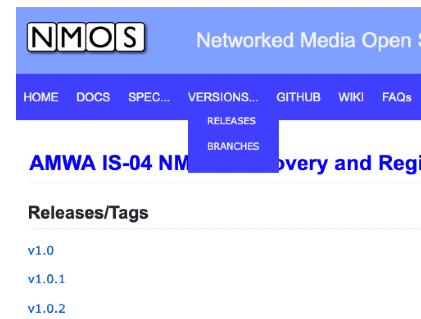
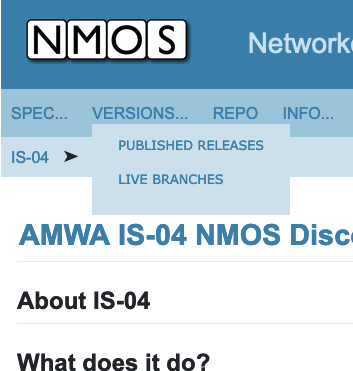
Update screenshots, defer to per-spec intros

diff --git a/docs/Technical Overview.md b/docs/Technical Overview.md
@@ -1,12 +1,12 @@
 # NMOS Technical Overview
 {:.no_toc}
 
-* A markdown unordered list which will be replaced with the ToC, excluding the "Contents header" from above
+- A markdown unordered list which will be replaced with the ToC, excluding the "Contents header" from above
 {:toc}
 
 ## Introduction
 
-Networked Media Open Specifications ([NMOS][]) are a family of specifications that support the professional AV media industry's transition to a "fully-networked" architecture. 
+Networked Media Open Specifications ([NMOS][]) are a family of specifications that support the professional AV media industry's transition to a "fully-networked" architecture.
 
 The NMOS specs are developed by the Advanced Media Workflow Association ([AMWA][]) and are published on GitHub.
 
@@ -162,8 +162,11 @@ A current list of NMOS Specifications is at <https://specs.amwa.tv/nmos>:
 
 ![NMOS-Main-List](images/nmos-main-list.png)
 
+From there you can click on the entry in the "Name" column to go to the *rendered HTML documentation* for each Specification. Each Specification's "home page" contains a short introduction, typically including:
 
-From there you can click on the entry in the "Name" column to go to the *rendered HTML documentation* for each Specification.
+- What does it do?
+- Why does it matter?
+- How does it work?
 
 To see the GitHub _repository_ that contains the source for the specification, click on the entry in the "Repository" column, or on "GITHUB" in the menu bar of the documentation. This takes you to the default git branch
 
@@ -173,10 +176,10 @@ To see the GitHub _repository_ that contains the source for the specification, c
 
 The NMOS Interface Specications (IS-04 etc.) are layed out as below, where the directory names refer to what is in the repo:
 
-* `/APIs/`: RAML API definitions
-  * `/APIs/schemas/`: JSON Schemas referenced from the RAML
-* `/examples/`: Example API messages
-* `/docs/`: Normative and supporting documents, starting with an Overview.
+- `/APIs/`: RAML API definitions
+  - `/APIs/schemas/`: JSON Schemas referenced from the RAML
+- `/examples/`: Example API messages
+- `/docs/`: Normative and supporting documents, starting with an Overview.
 
 The most imporant parts of these are listed on the Specification's main documentation page:
 
@@ -188,7 +191,7 @@ And you can also use menu options:
 
 ### Selecting a Version
 
-"VERSIONS..." in the documenation menu lets you select a particular release of a specification, or a particular release:
+"VERSIONS..." in the documenation menu lets you select a particular release of a specification, or a live (development) branch:
 
 ![Nav-Versions](images/nav-versions.png)
 
@@ -205,7 +208,7 @@ To go back to the main Spec list, click the NMOS logo.
 
 ### Viewing the APIs
 
-You can download the RAML and schema files directly from the repo (in the directories listed above). 
+You can download the RAML and schema files directly from the repo (in the directories listed above).
 But in many cases it may be easier to view rendered versions, such as this one for the IS-04 Node API:
 
 ![API-Doc](images/api-doc.png)
@@ -216,98 +219,9 @@ Then you can use the GET, PUT, etc. buttons to see a relevant request or respons
 
 > Note that this example includes three further referenced schemas.  At present you will have to navigate to the "Schemas" page to see these.  We hope to put in links soon though!
 
-> And also note that the header and toolbar are not present on the rendered API specs, so you'll have to use the back button until they are. We'll try to fix that also.
-
 ### Viewing the documentation
 
 This is straightforward - just click on the relevant links.
-
->  Note that the numbers in the document file names are removed for the HTML site (so `1.0. Overview` -> `Overview`), but the order is preserved.  Please submit an issue if you think is undesirable.
-
-## The Specifications
-
-This section outlines the publicly available NMOS specifications.
-
-### IS-04: Discovery and Registration
-
-<https://specs.amwa.tv/is-04>
-
-This Specification enables applications to discover networked resources, which is an important first step towards automation and scalability.
-
-It specifies:
-
-- an HTTP **Registration API** that Nodes use to register their resources with a **Registry**.
-- an HTTP **Query API** that applications use to find a list of available resources of a particular type (Device, Sender, Receiver...) in the Registry.
-- an HTTP **Node API** that applications use to find further resources on the Node.
-- how to announce the APIs using DNS-SD, so the API endpoints don't have to be known by Nodes or Applications.
-- how to achieve "peer-to-peer" discovery using DNS-SD and the Node API, where no Registry is available.
-
-It also includes a basic connection management mechanism that was used before the creation of IS-05 (see below). This is deprecated, and will be removed in later versions of IS-04.
-
-### IS-05: Device Connection Management
-
-<https://specs.amwa.tv/is-05>
-
-This Specification provides an HTTP API for establishing (and removing) Flows between Senders and Receivers.
-
-This allows the connection to made in a way that doesn't require knowledge of the transport protocol that will be used. It can be used for both unicast and multicast connections, and to initiate a connection made by a separate controller application.
-
-It allows connections to be prepared and "activated" at a particular time and allows multiple connections to be made/unmade at the same time (sometimes known as "bulk" or "salvo" operation).
-
-### IS-06: Network Control
-
-<https://specs.amwa.tv/is-06>
-
-This Specification can be considered as a "northbound API" for SDN controllers. It provides an HTTP API to communicate information about the network topology, allow reservation of bandwidth for low-level network flows and monitoring.
-
-### IS-07: Event & Tally
-
-<https://specs.amwa.tv/is-07>
-
-This Specification provides a mechanism for conveying time-related state and state change information, for example tally information from sensors and actuators using WebSockets or a message queue (MQTT).
-
-### IS-08: Audio Channel Mapping
-
-<https://specs.amwa.tv/is-08>
-
-This Specification provides a mechanism to define settings for channel mapping, selection and shuffling for use with NMOS APIs.
-
-### IS-09: System
-
-<https://specs.amwa.tv/is-09>
-
-This allows Nodes to find Resources that are common across a system, to ensure consistent start-up.
-
-### MS-04: Identity & Timing Model
-
-<https://specs.amwa.tv/ms-04>
-
-This will document a model for identity and timing that applies to AMWA NMOS specifications associated with the identification and processing of content.
-This is consistent with the model and terminology presented in this Overview.
-
-### BCP-002-01: Natural Grouping
-
-<https://specs.amwa.tv/bcp-002>
-
-This defines how to tag related resources, such as a group of Senders belonging to the same Device or Node, or a group of Receivers belonging to the same Device or Node.
-
-### BCP-003-01: Securing Communications
-
-<https://specs.amwa.tv/bcp-003-01>
-
-This documents best practice for securing communications used in NMOS specifications, using  TLS and PKI.
-
-### BCP-003-02 and IS-10: Authorization (Work In Progress)
-
-<https://specs.amwa.tv/bcp-003-02> and <https://specs.amwa.tv/is-10>
-
-These specify how to implement client authorization for the NMOS APIs.
-
-### Parameter Registers
-
-<https://specs.amwa.tv/nmos-parameter-registers>
-
-The Parameter Registers provide an extensible mechanism for defining values used within NMOS Specfications. Currently these use URNs. For example some NMOS resources have a `format` property, and `urn:x-nmos:format:video` provides a formal way of using this.
 
 [AES-67]: http://www.aes.org/publications/standards/search.cfm?docID=96 "AES67-2015: AES standard for audio applications of networks - High-performance streaming audio-over-IP interoperability"
 

diff --git a/docs/NMOS Solutions.md b/docs/NMOS Solutions.md
@@ -75,7 +75,7 @@ Many of these products have participated in the JT-NM Tested programme, with res
 | Riedel Communications GmbH & Co. KG|  [MediorNet FusioN](https://www.riedel.net/en/products-solutions/distributed-video-networks/mediornet-fusion/hardware/) <br/> [MediorNet MuoN](https://www.riedel.net/en/products-solutions/distributed-video-networks/mediornet-muon/hardware/) <br/> [MediorNet MicroN IP App](https://www.riedel.net/en/products/media-networks/mn-micron/ip-app/) <br/><br/><br/> [Artist Matrix Intercom](https://www.riedel.net/en/products-solutions/intercom/artist-matrix-intercom/hardware/) <br/> <br/>[Control Panel App for 1200 series Smartpanels](https://www.riedel.net/en/products-solutions/intercom/smartpanels/control-panel-app/)| IS-04 v1.2/1.3 <br/> IS-05 v1.0/1.1 <br/> IS-08 v1.0 <br/>IS-07 v1.0 (Control Panel App) | Gateway and Processing Devices <br/><br/><br/><br/><br> IP Intercom <br/><br/><br/> Universal Control Panel |
 | Ross | [Ultrix-IP](https://www.rossvideo.com/ultrix) <br/> [Raptor](https://www.rossvideo.com/raptor) <br/> [Newt](https://www.rossvideo.com/newt) <br/> [Iggy](https://www.rossvideo.com/products-services/infrastructure/signal-processing/iggy-madi-aes67-st2110-to-madi-audio-converter/) | IS-04 v1.3 IS-05 v1.1 (Ultrix-IP)<br/> IS-04 v1.2 IS-05 v1.0 | Ultrix 12G Router IP Gateway <br/> IP/SDI Gateway <br/> IP/SDI/HDMI Gateway <br/> AES67 / MADI gateway |
 | Sony | [HDCU-3000 Series](https://pro.sony/en_GB/products/camera-control-unit/hdcu-3500) <br/> [HDCU-5000 Series](https://pro.sony/en_GB/products/camera-control-unit/hdcu-5000) <br/> [HDCE-TX/RX Series](https://pro.sony/en_GB/products/camera-control-unit/hdce-tx30) <br/> [XVS Series](https://pro.sony/en_GB/products/video-switchers) <br/> [PWS-4500](https://pro.sony/en_GB/products/live-production-servers/pws-4500) | IS-04 v1.3 <br/> IS-05 v1.1 <br/> BCP-002-01 v1.0 | IP Ready Camera Control Units <br/> IP Ready Camera Extension Adaptor <br/> IP Ready Switcher Processor <br/> IP Ready Production Server |
-| Synamedia | [Virtual Digital Content Manager (vDCM)](https://www.synamedia.com/wp-content/uploads/2021/11/VN-vDCM-Encoder-Datasheet.pdf) | IS-04 v1.3 <br/> IS05 v1.1 <br/> BCP-002-01 v1.0 <br/> BCP-004-01 v1.0 | Software-based video multiplexer and compression system (encoder/transcoder) |
+| Synamedia | [Virtual Digital Content Manager (vDCM)](https://www.synamedia.com/wp-content/uploads/2021/11/VN-vDCM-Encoder-Datasheet.pdf) | IS-04 v1.3 <br/> IS-05 v1.1 <br/> BCP-002-01 v1.0 <br/> BCP-004-01 v1.0 | Software-based video multiplexer and compression system (encoder/transcoder) |
 | Telestream | [PRISM](https://www.telestream.net/video/prism.htm) | IS-04 v1.2 <br/> IS-05 v1.0 | Hybrid IP/SDI Monitoring Instrument. |
 | Vizrt | [VizEngine 3.14](https://www.vizrt.com/products/viz-engine) | IS-04 v1.2 <br/> IS-05 v1.0 | Real Time Rendering Engine |
 
